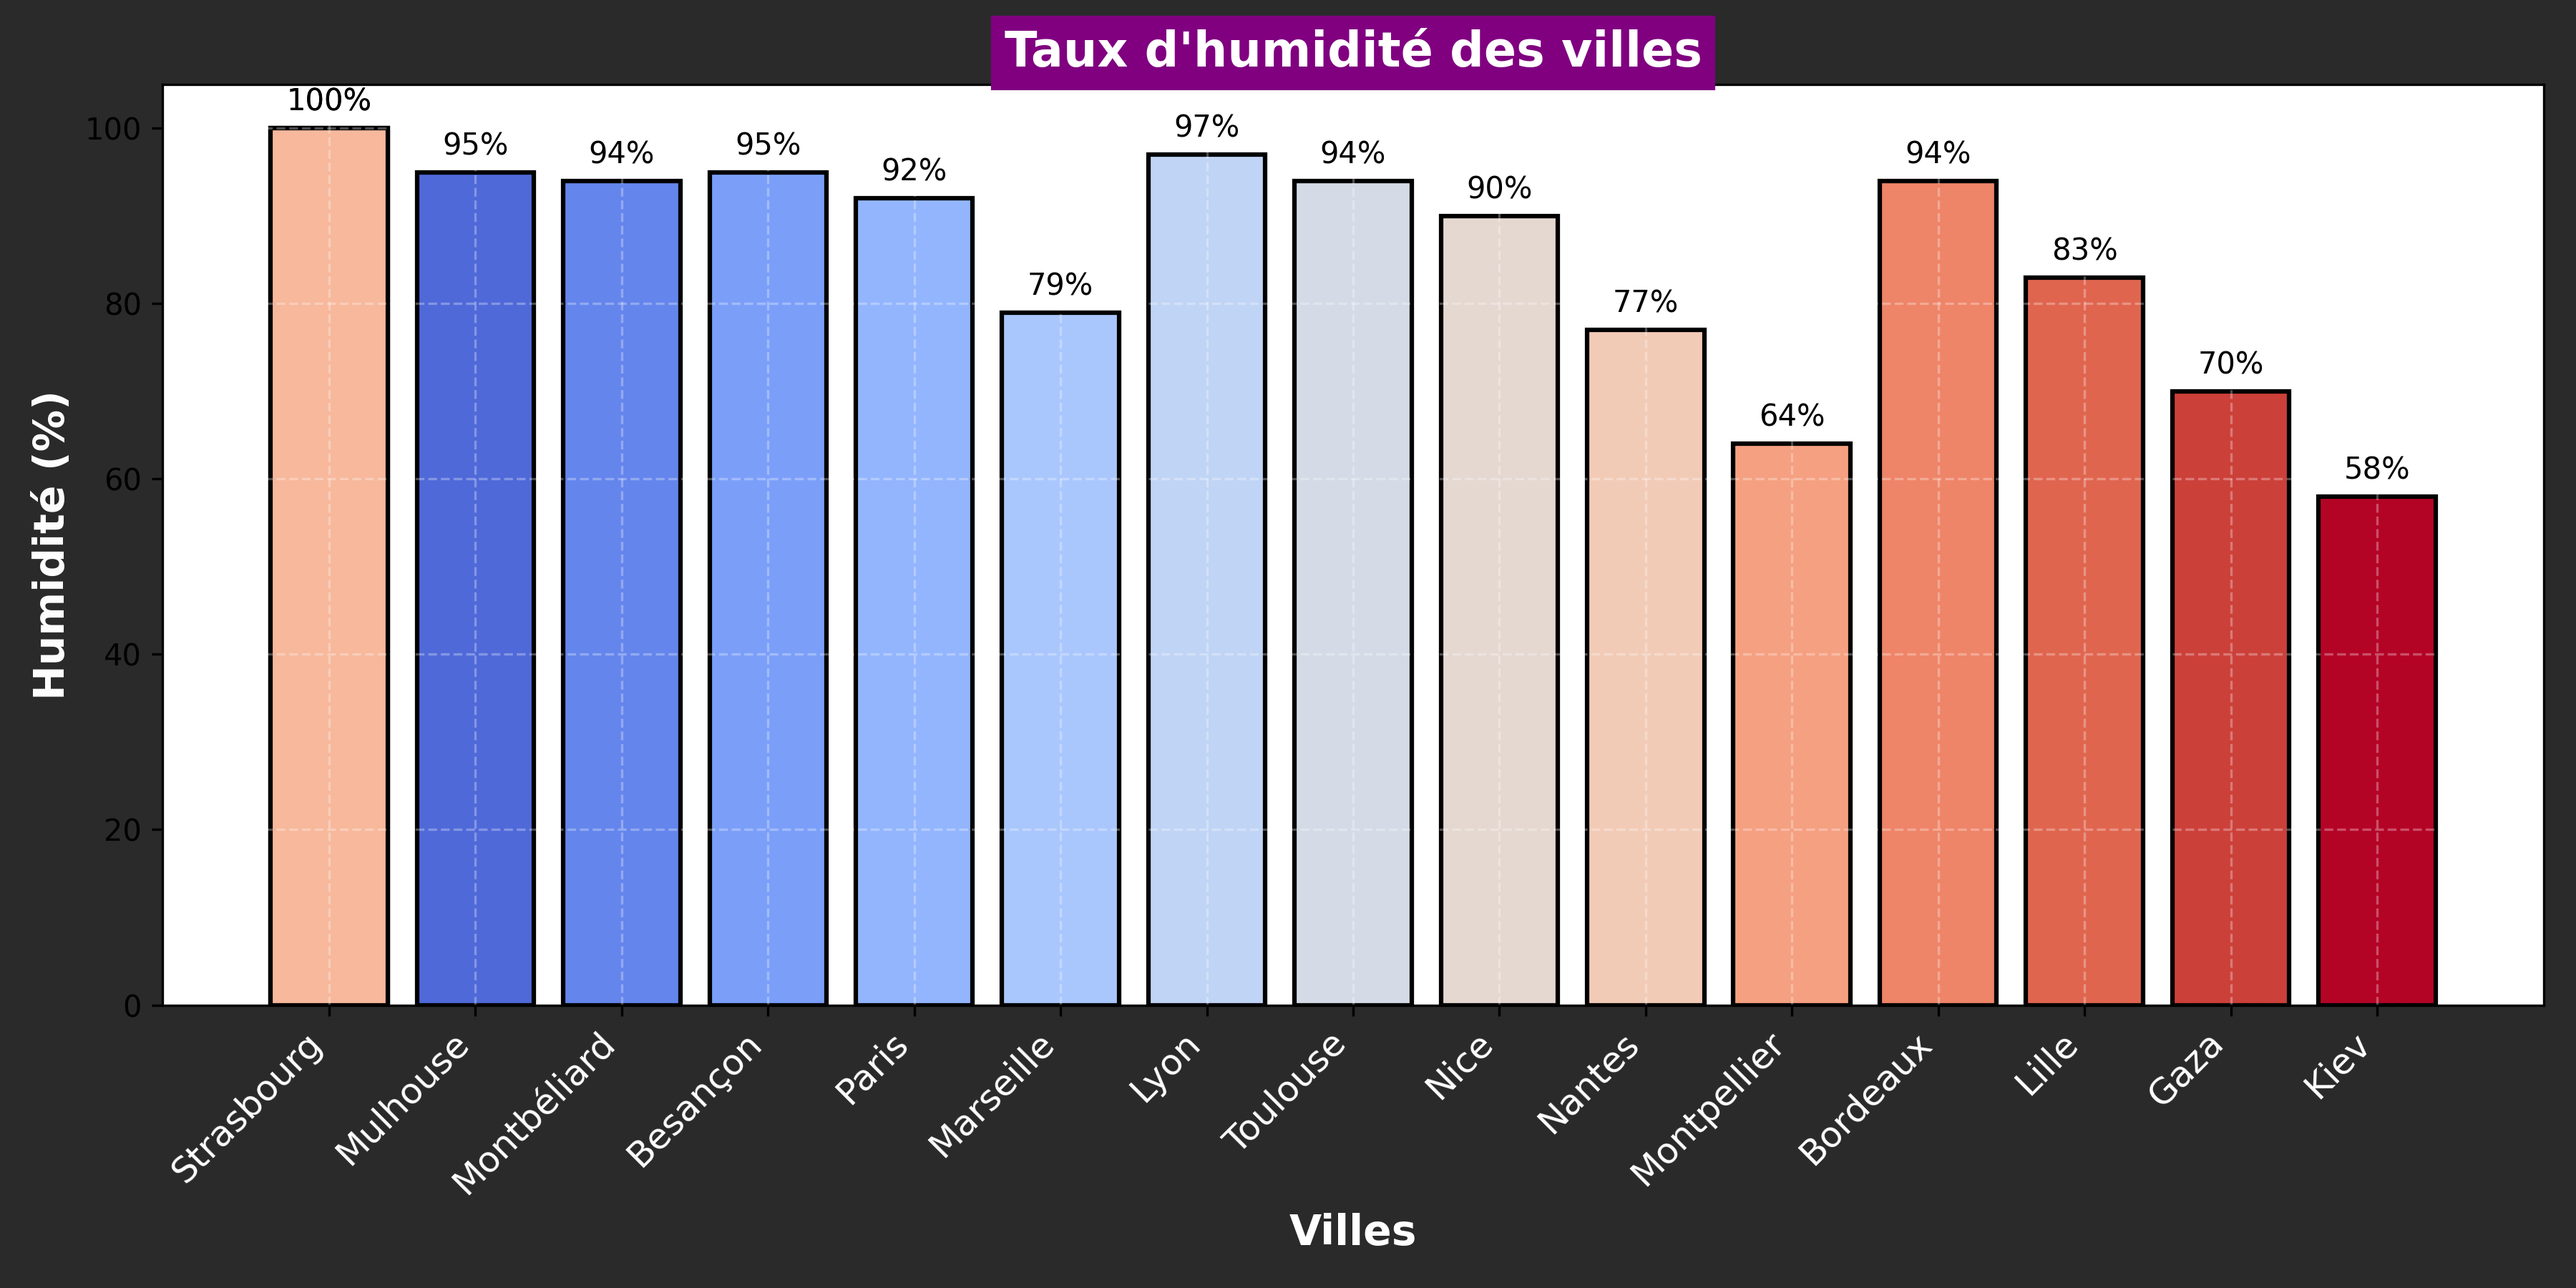
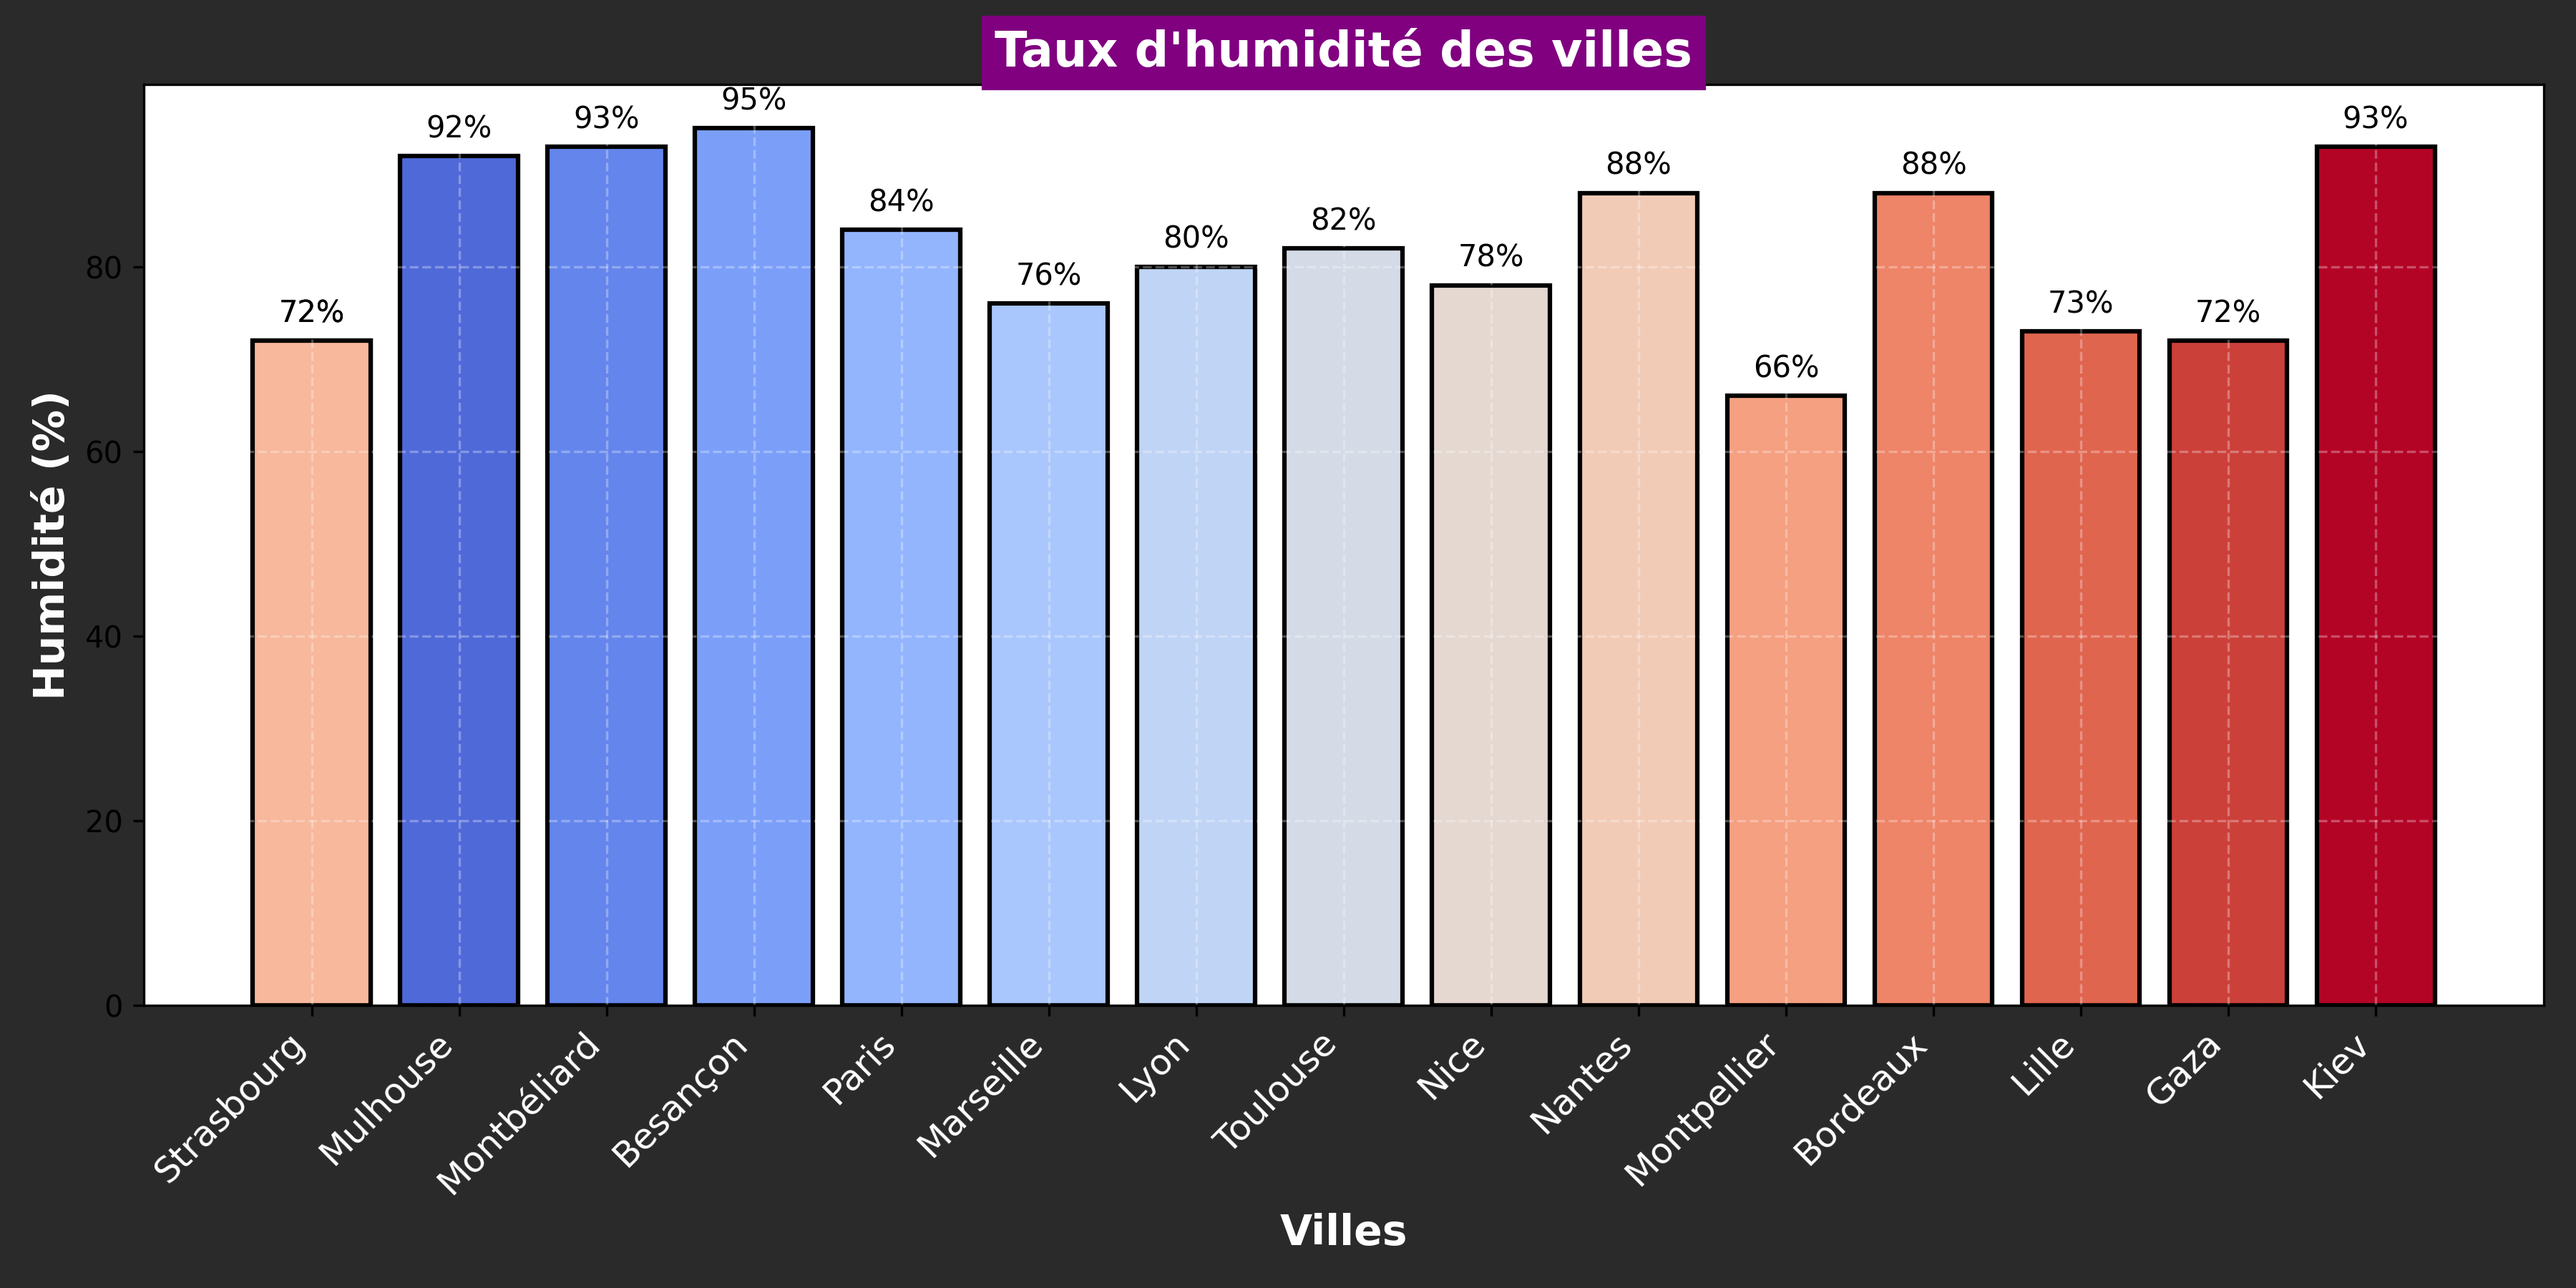
Mise à jour de la météo et ajout du graphique d'humidité

diff --git a/README.md b/README.md
@@ -24,103 +24,103 @@ Ce repo contient plusieurs workflows GitHub Actions :
 ## Météo actuelle :
 ## Météo des grandes villes + Gaza et Kiev 🌍
 
-🕒 Mise à jour : 21/08/2025 08:28:07
+🕒 Mise à jour : 22/08/2025 08:18:36
 
-### 🌍 Strasbourg 🌥
-**Conditions :** couvert
-**Température :** 18.02°C
-**Humidité :** 100%
-**Vent :** 0 m/s
+### 🌍 Strasbourg ☀
+**Conditions :** ciel dégagé
+**Température :** 15.97°C
+**Humidité :** 72%
+**Vent :** 4.12 m/s
 
 ### 🌍 Mulhouse 🌥
-**Conditions :** forte pluie
-**Température :** 16.43°C
-**Humidité :** 95%
-**Vent :** 1.03 m/s
-
-### 🌍 Montbéliard 🌥
 **Conditions :** couvert
-**Température :** 17.21°C
-**Humidité :** 94%
-**Vent :** 2.27 m/s
-
-### 🌍 Besançon 🌥
-**Conditions :** forte pluie
-**Température :** 15.18°C
-**Humidité :** 95%
-**Vent :** 1.99 m/s
-
-### 🌍 Paris 🌥
-**Conditions :** nuageux
-**Température :** 15.61°C
+**Température :** 15.85°C
 **Humidité :** 92%
-**Vent :** 4.63 m/s
+**Vent :** 2.57 m/s
 
-### 🌍 Marseille 🌥
-**Conditions :** partiellement nuageux
-**Température :** 17.37°C
-**Humidité :** 79%
-**Vent :** 6.42 m/s
+### 🌍 Montbéliard ☀
+**Conditions :** ciel dégagé
+**Température :** 16.1°C
+**Humidité :** 93%
+**Vent :** 0.1 m/s
+
+### 🌍 Besançon ☀
+**Conditions :** ciel dégagé
+**Température :** 12.4°C
+**Humidité :** 95%
+**Vent :** 0.22 m/s
+
+### 🌍 Paris ☀
+**Conditions :** ciel dégagé
+**Température :** 13.37°C
+**Humidité :** 84%
+**Vent :** 3.09 m/s
+
+### 🌍 Marseille ☀
+**Conditions :** ciel dégagé
+**Température :** 17.52°C
+**Humidité :** 76%
+**Vent :** 4.5 m/s
 
 ### 🌍 Lyon 🌥
-**Conditions :** nuageux
-**Température :** 12.54°C
-**Humidité :** 97%
-**Vent :** 1.1 m/s
+**Conditions :** couvert
+**Température :** 15.39°C
+**Humidité :** 80%
+**Vent :** 1.51 m/s
 
 ### 🌍 Toulouse 🌥
 **Conditions :** couvert
 **Température :** 17.99°C
-**Humidité :** 94%
-**Vent :** 4.63 m/s
-
-### 🌍 Nice 🌥
-**Conditions :** partiellement nuageux
-**Température :** 16.39°C
-**Humidité :** 90%
-**Vent :** 1.16 m/s
-
-### 🌍 Nantes 🌥
-**Conditions :** couvert
-**Température :** 15.96°C
-**Humidité :** 77%
+**Humidité :** 82%
 **Vent :** 3.09 m/s
 
-### 🌍 Strasbourg 🌥
-**Conditions :** couvert
-**Température :** 18.02°C
-**Humidité :** 100%
-**Vent :** 0 m/s
+### 🌍 Nice ☀
+**Conditions :** ciel dégagé
+**Température :** 15.28°C
+**Humidité :** 78%
+**Vent :** 2.29 m/s
+
+### 🌍 Nantes ☀
+**Conditions :** ciel dégagé
+**Température :** 14.96°C
+**Humidité :** 88%
+**Vent :** 2.57 m/s
+
+### 🌍 Strasbourg ☀
+**Conditions :** ciel dégagé
+**Température :** 15.97°C
+**Humidité :** 72%
+**Vent :** 4.12 m/s
 
 ### 🌍 Montpellier ☀
 **Conditions :** ciel dégagé
-**Température :** 20.71°C
-**Humidité :** 64%
-**Vent :** 5.14 m/s
+**Température :** 20.83°C
+**Humidité :** 66%
+**Vent :** 4.63 m/s
 
-### 🌍 Bordeaux 🌥
-**Conditions :** nuageux
-**Température :** 17.15°C
-**Humidité :** 94%
+### 🌍 Bordeaux ☀
+**Conditions :** ciel dégagé
+**Température :** 18.15°C
+**Humidité :** 88%
+**Vent :** 2.06 m/s
+
+### 🌍 Lille 🌥
+**Conditions :** couvert
+**Température :** 15.57°C
+**Humidité :** 73%
 **Vent :** 2.57 m/s
 
-### 🌍 Lille ☀
+### 🌍 Gaza ☀
 **Conditions :** ciel dégagé
-**Température :** 16.08°C
-**Humidité :** 83%
-**Vent :** 5.66 m/s
-
-### 🌍 Gaza 🌥
-**Conditions :** peu nuageux
-**Température :** 28.1°C
-**Humidité :** 70%
-**Vent :** 3.77 m/s
+**Température :** 28.08°C
+**Humidité :** 72%
+**Vent :** 2.07 m/s
 
 ### 🌍 Kiev 🌥
-**Conditions :** peu nuageux
-**Température :** 19.78°C
-**Humidité :** 58%
-**Vent :** 3.46 m/s
+**Conditions :** couvert
+**Température :** 18.73°C
+**Humidité :** 93%
+**Vent :** 1.61 m/s
 
 <p align='center'><img src='https://raw.githubusercontent.com/khoa083/khoa/main/Khoa_ne/img/Rainbow.gif' width='100%' style='border-radius: 5px; border: 3px solid #39FF14; box-shadow: 0 0 10px #39FF14, 0 0 20px #39FF14;' /></p>
 
